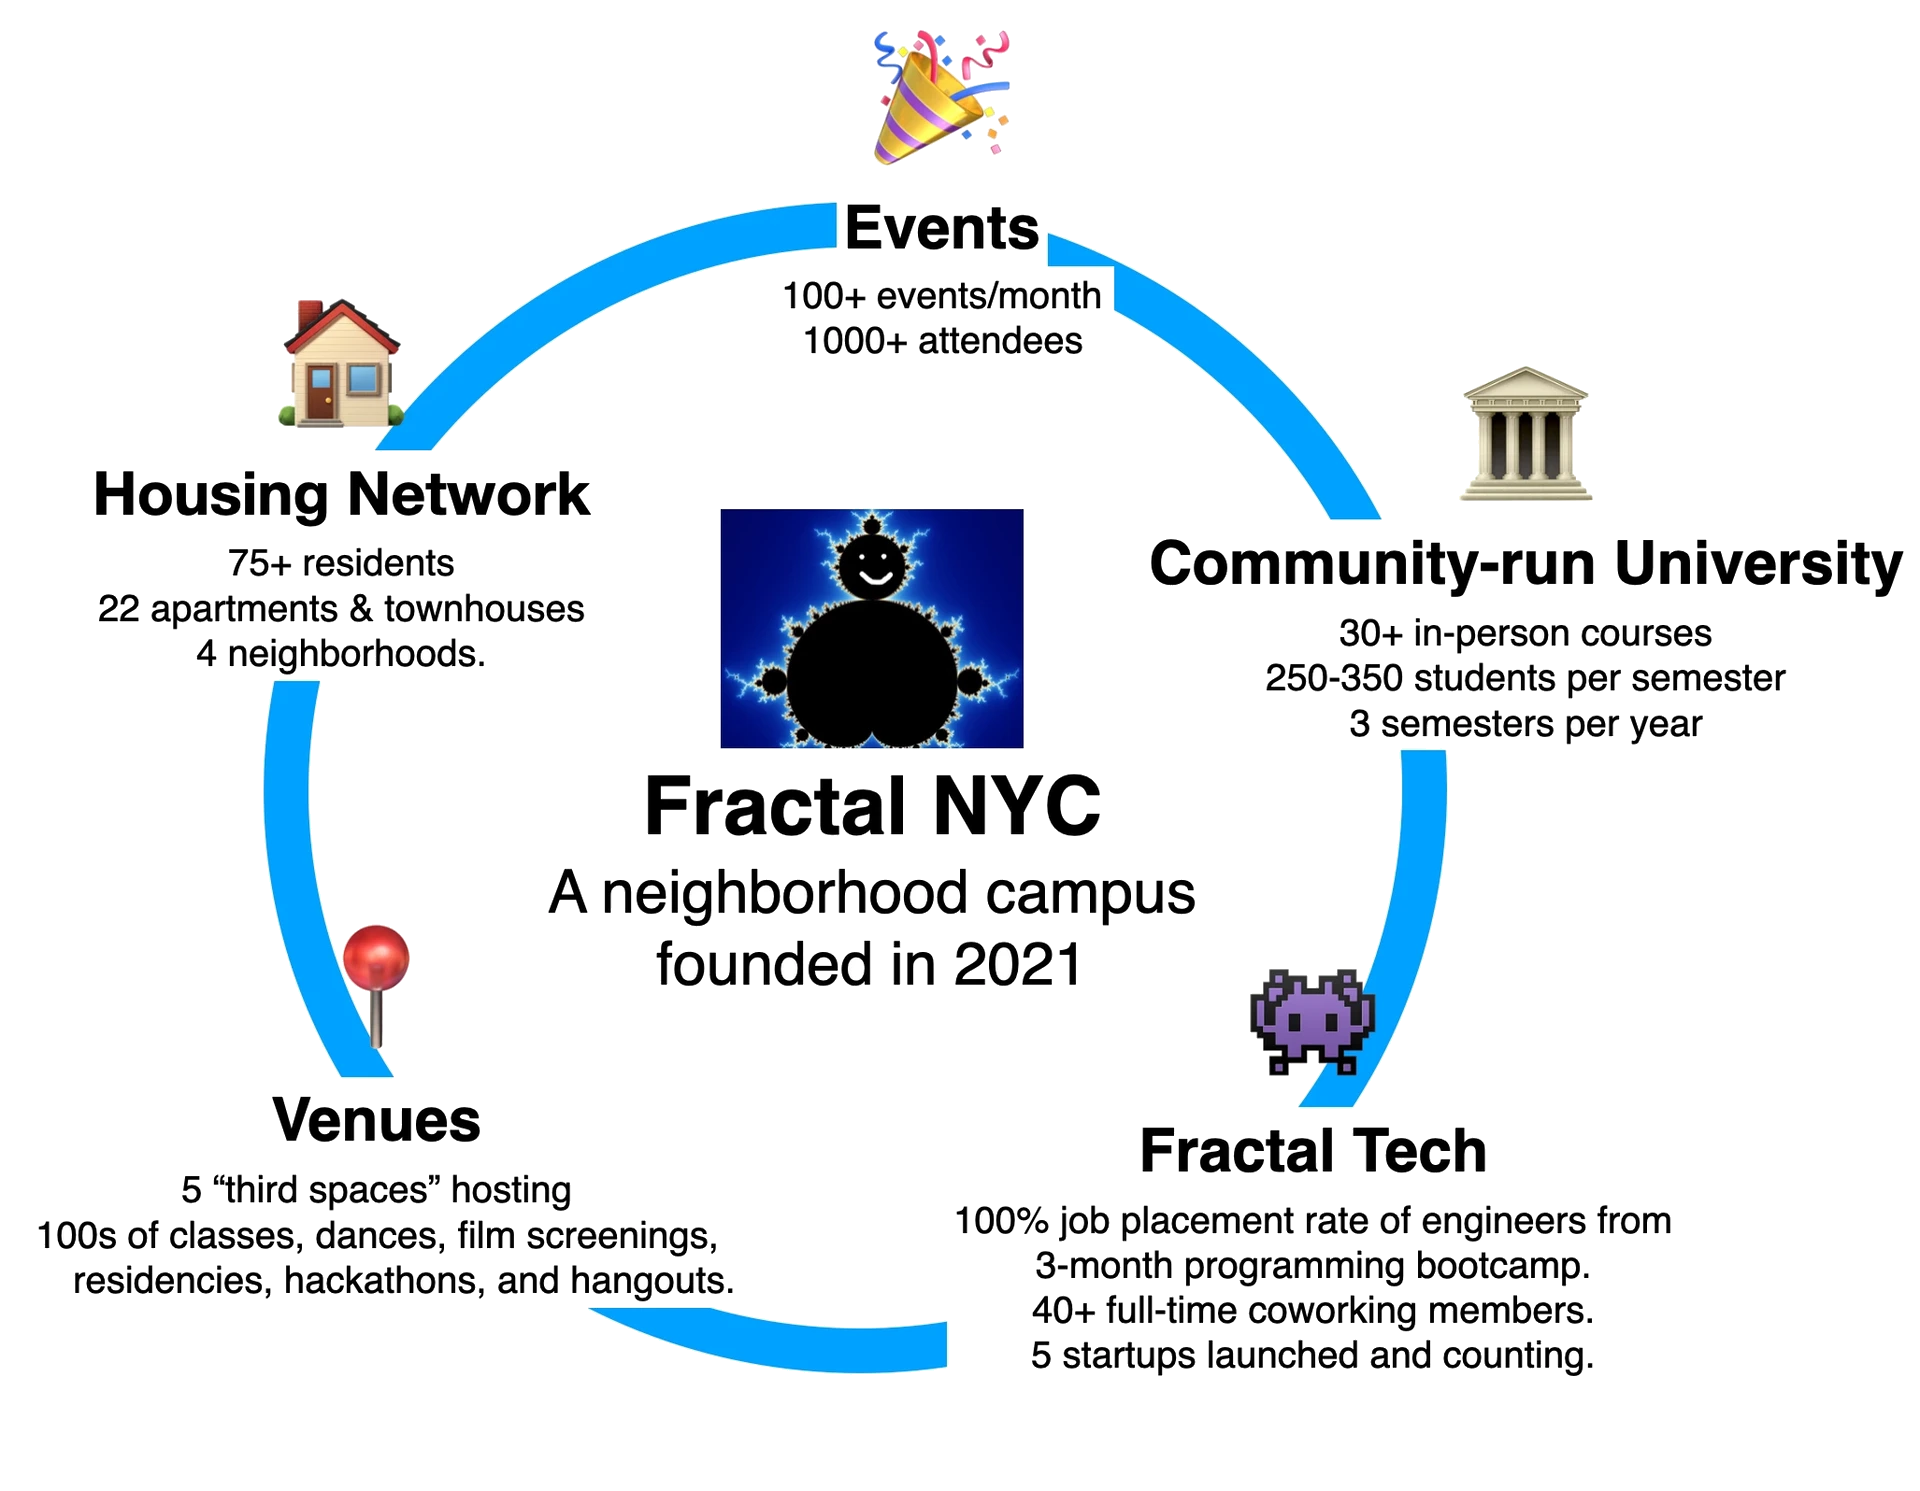
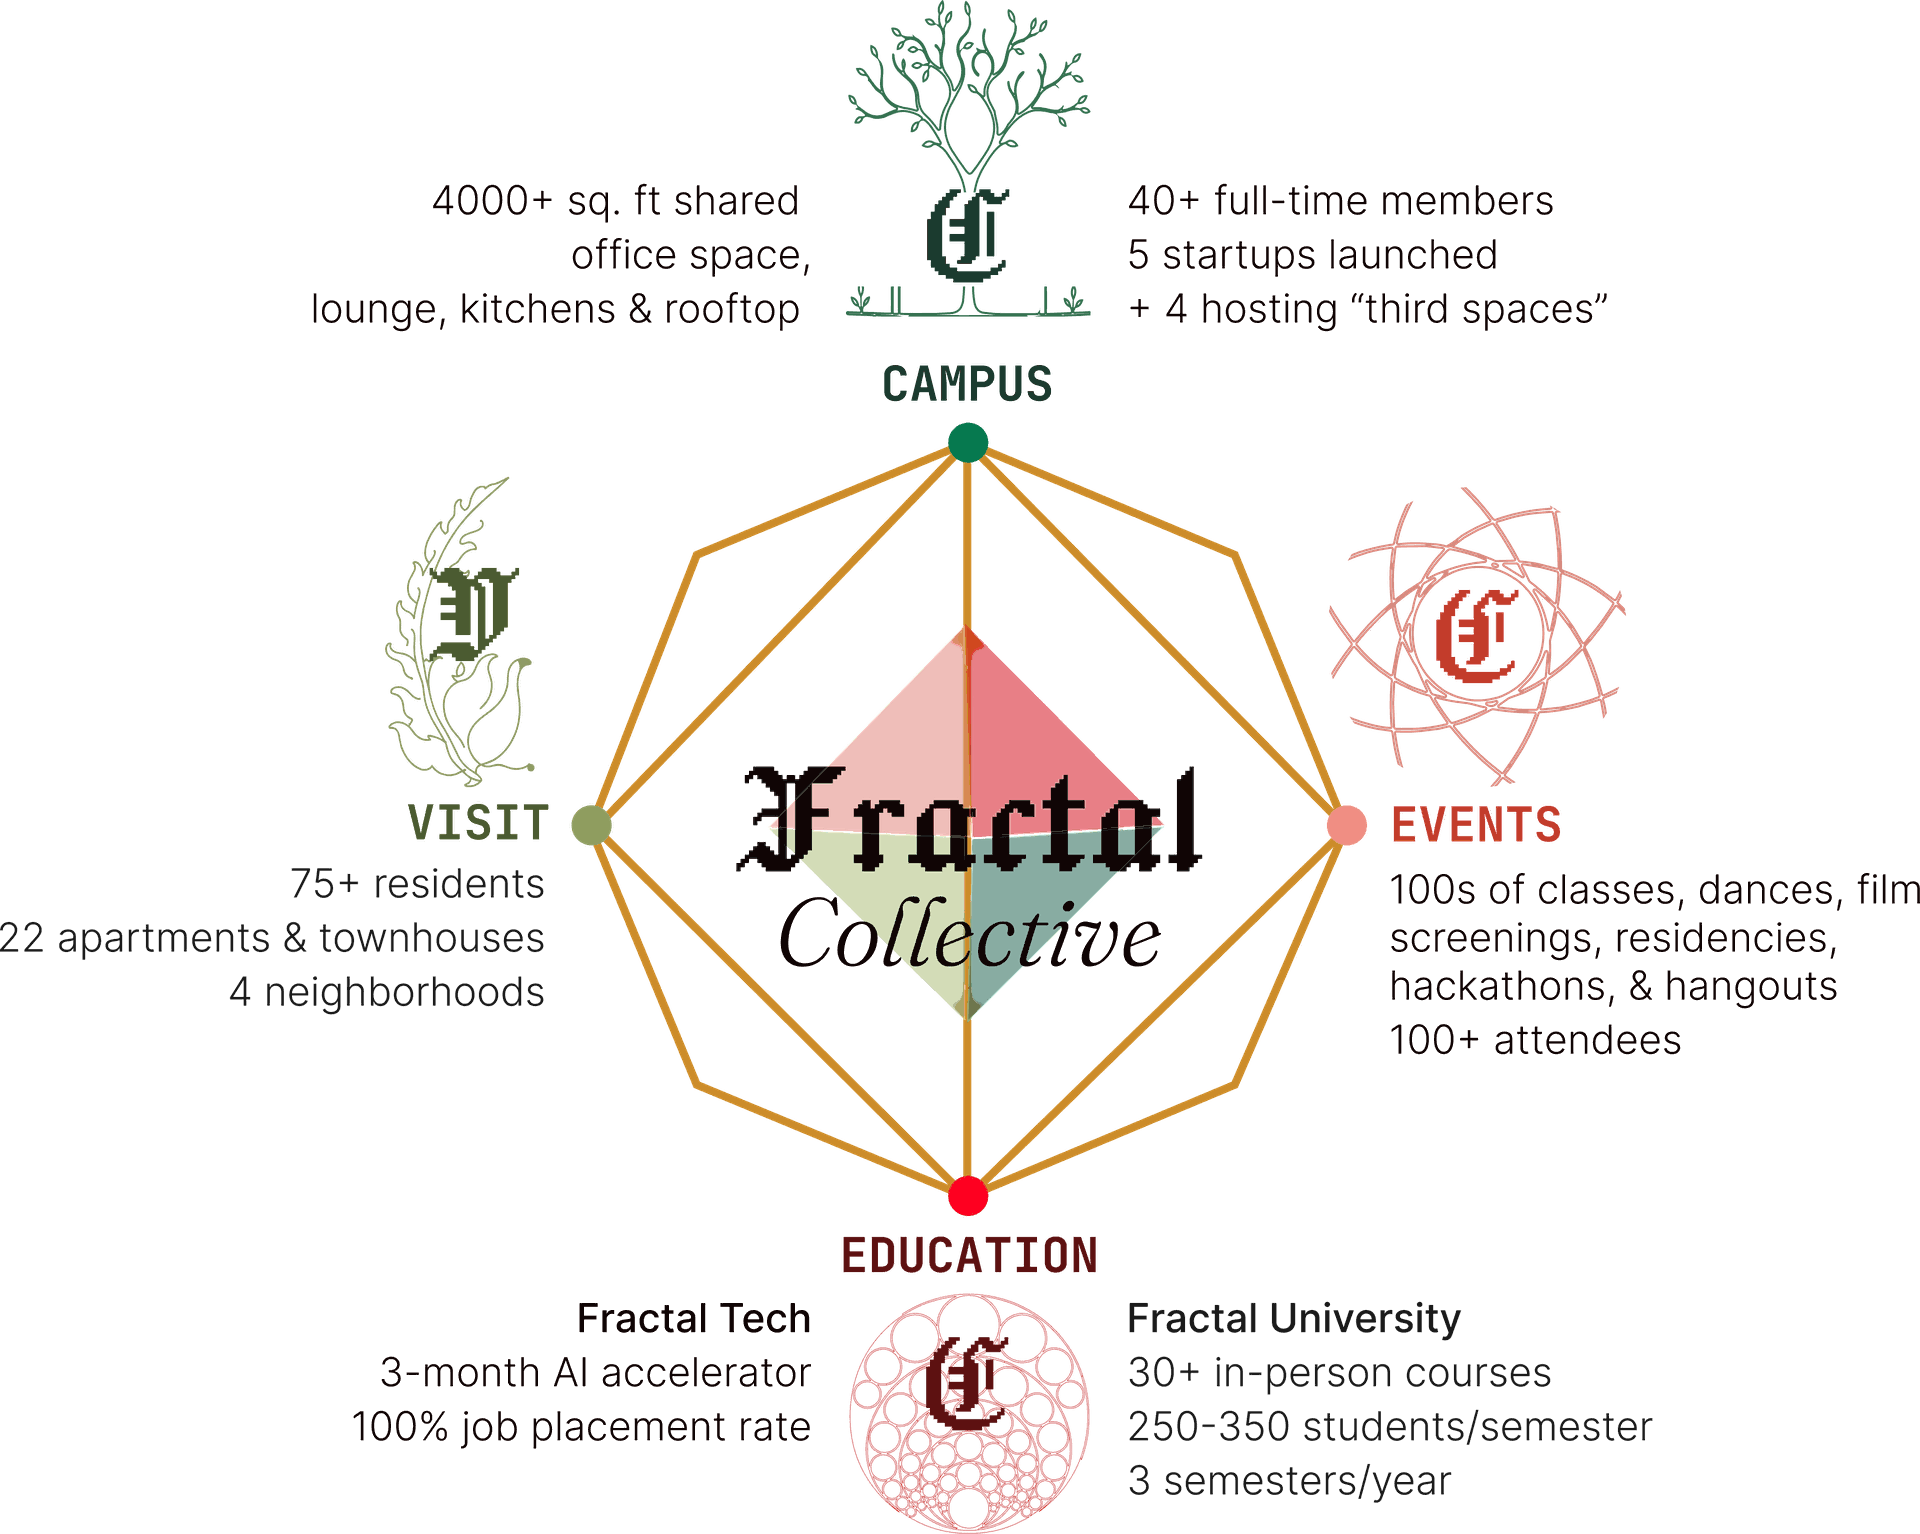
FRAC-188: replace Story page diagram with new octagon Fractal Collective diagram
Swap the neighborhood-campus diagram for the new octagon design (Campus,
Visit, Events, Education). Transparent PNG composites over the page's gold
background; downscaled to 1920px and palette-quantized (698KB -> 144KB) for
a lighter mobile payload. Alt text updated to match the new labels.

Changed region(s): [[0.0, 0.0, 1.0, 1.0], [0.9688, 0.5553, 1.0, 0.5862]]

diff --git a/src/components/sections/OriginStory.tsx b/src/components/sections/OriginStory.tsx
@@ -22,7 +22,7 @@ export function OriginStory() {
         <div className="max-w-5xl mx-auto px-[4.5%] mt-10 md:mt-16">
           <img
             src="/images/fractal-nyc-diagram.png"
-            alt="Fractal NYC neighborhood campus diagram — five pillars: Events, Community-run University, Fractal Tech, Venues, Housing Network"
+            alt="Fractal NYC neighborhood campus diagram — four pillars around the Fractal Collective: Campus, Visit, Events, and Education (Fractal Tech and Fractal University)"
             className="block w-full h-auto mx-auto"
             loading="lazy"
             decoding="async"